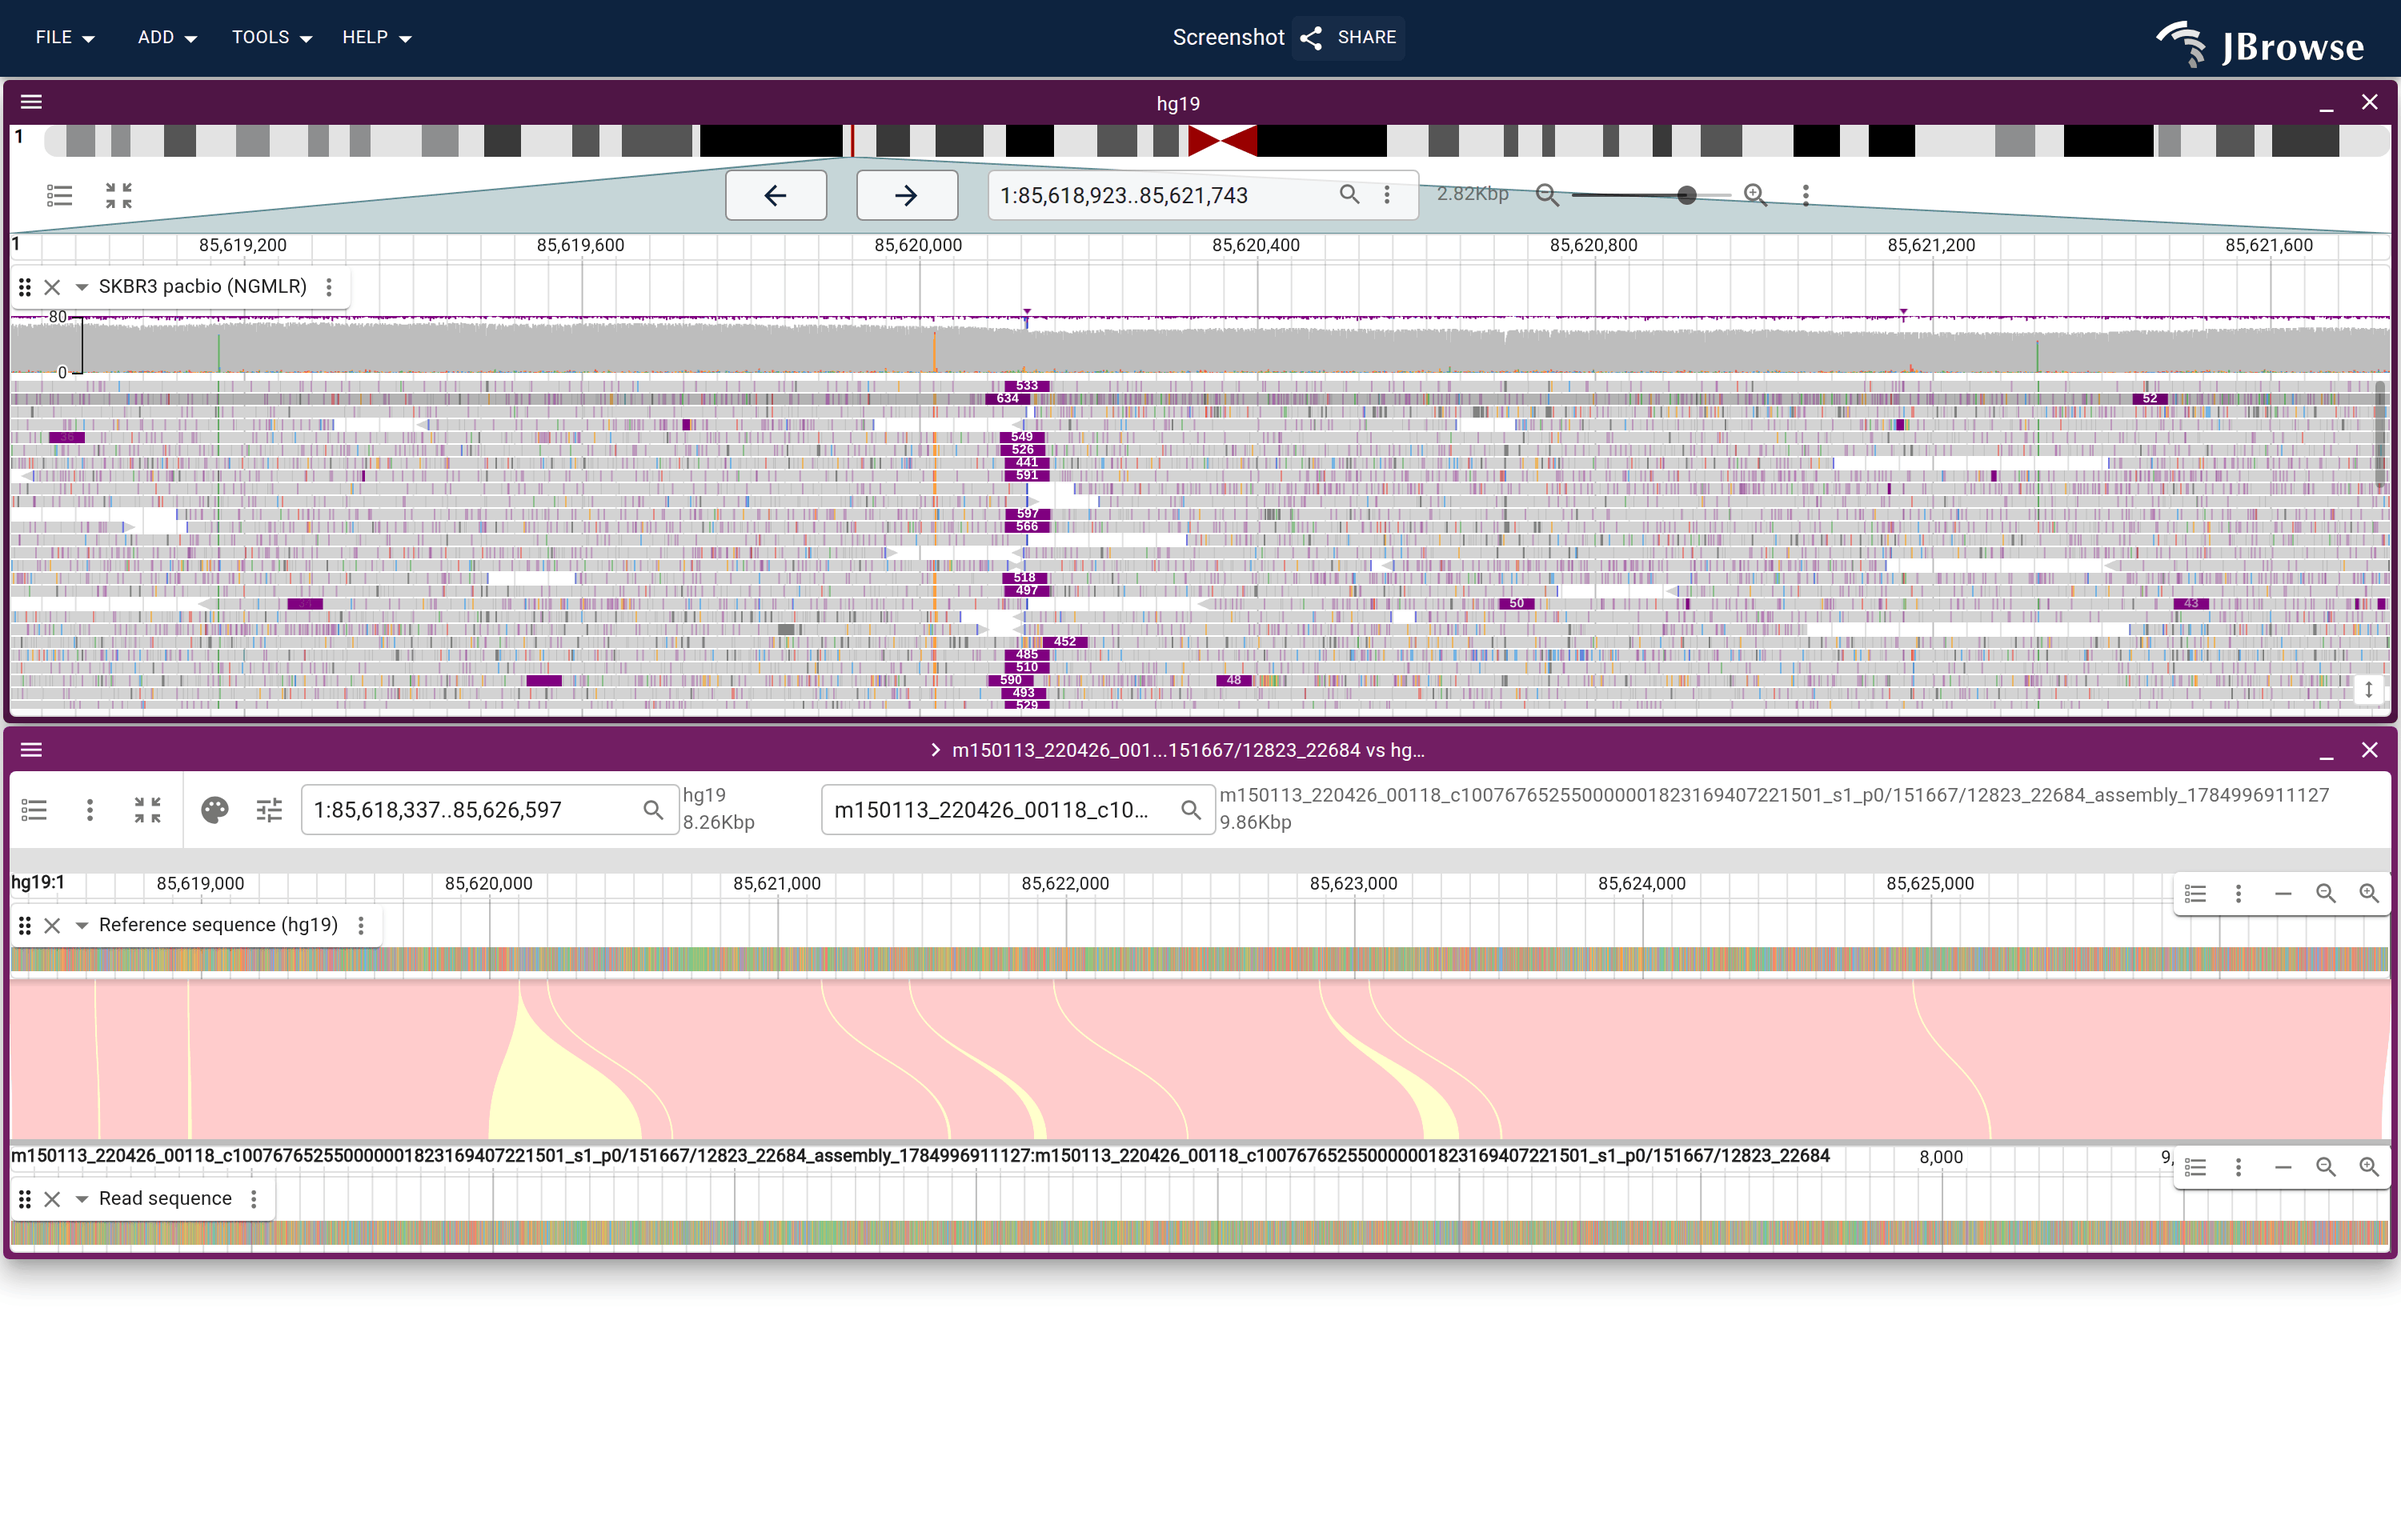
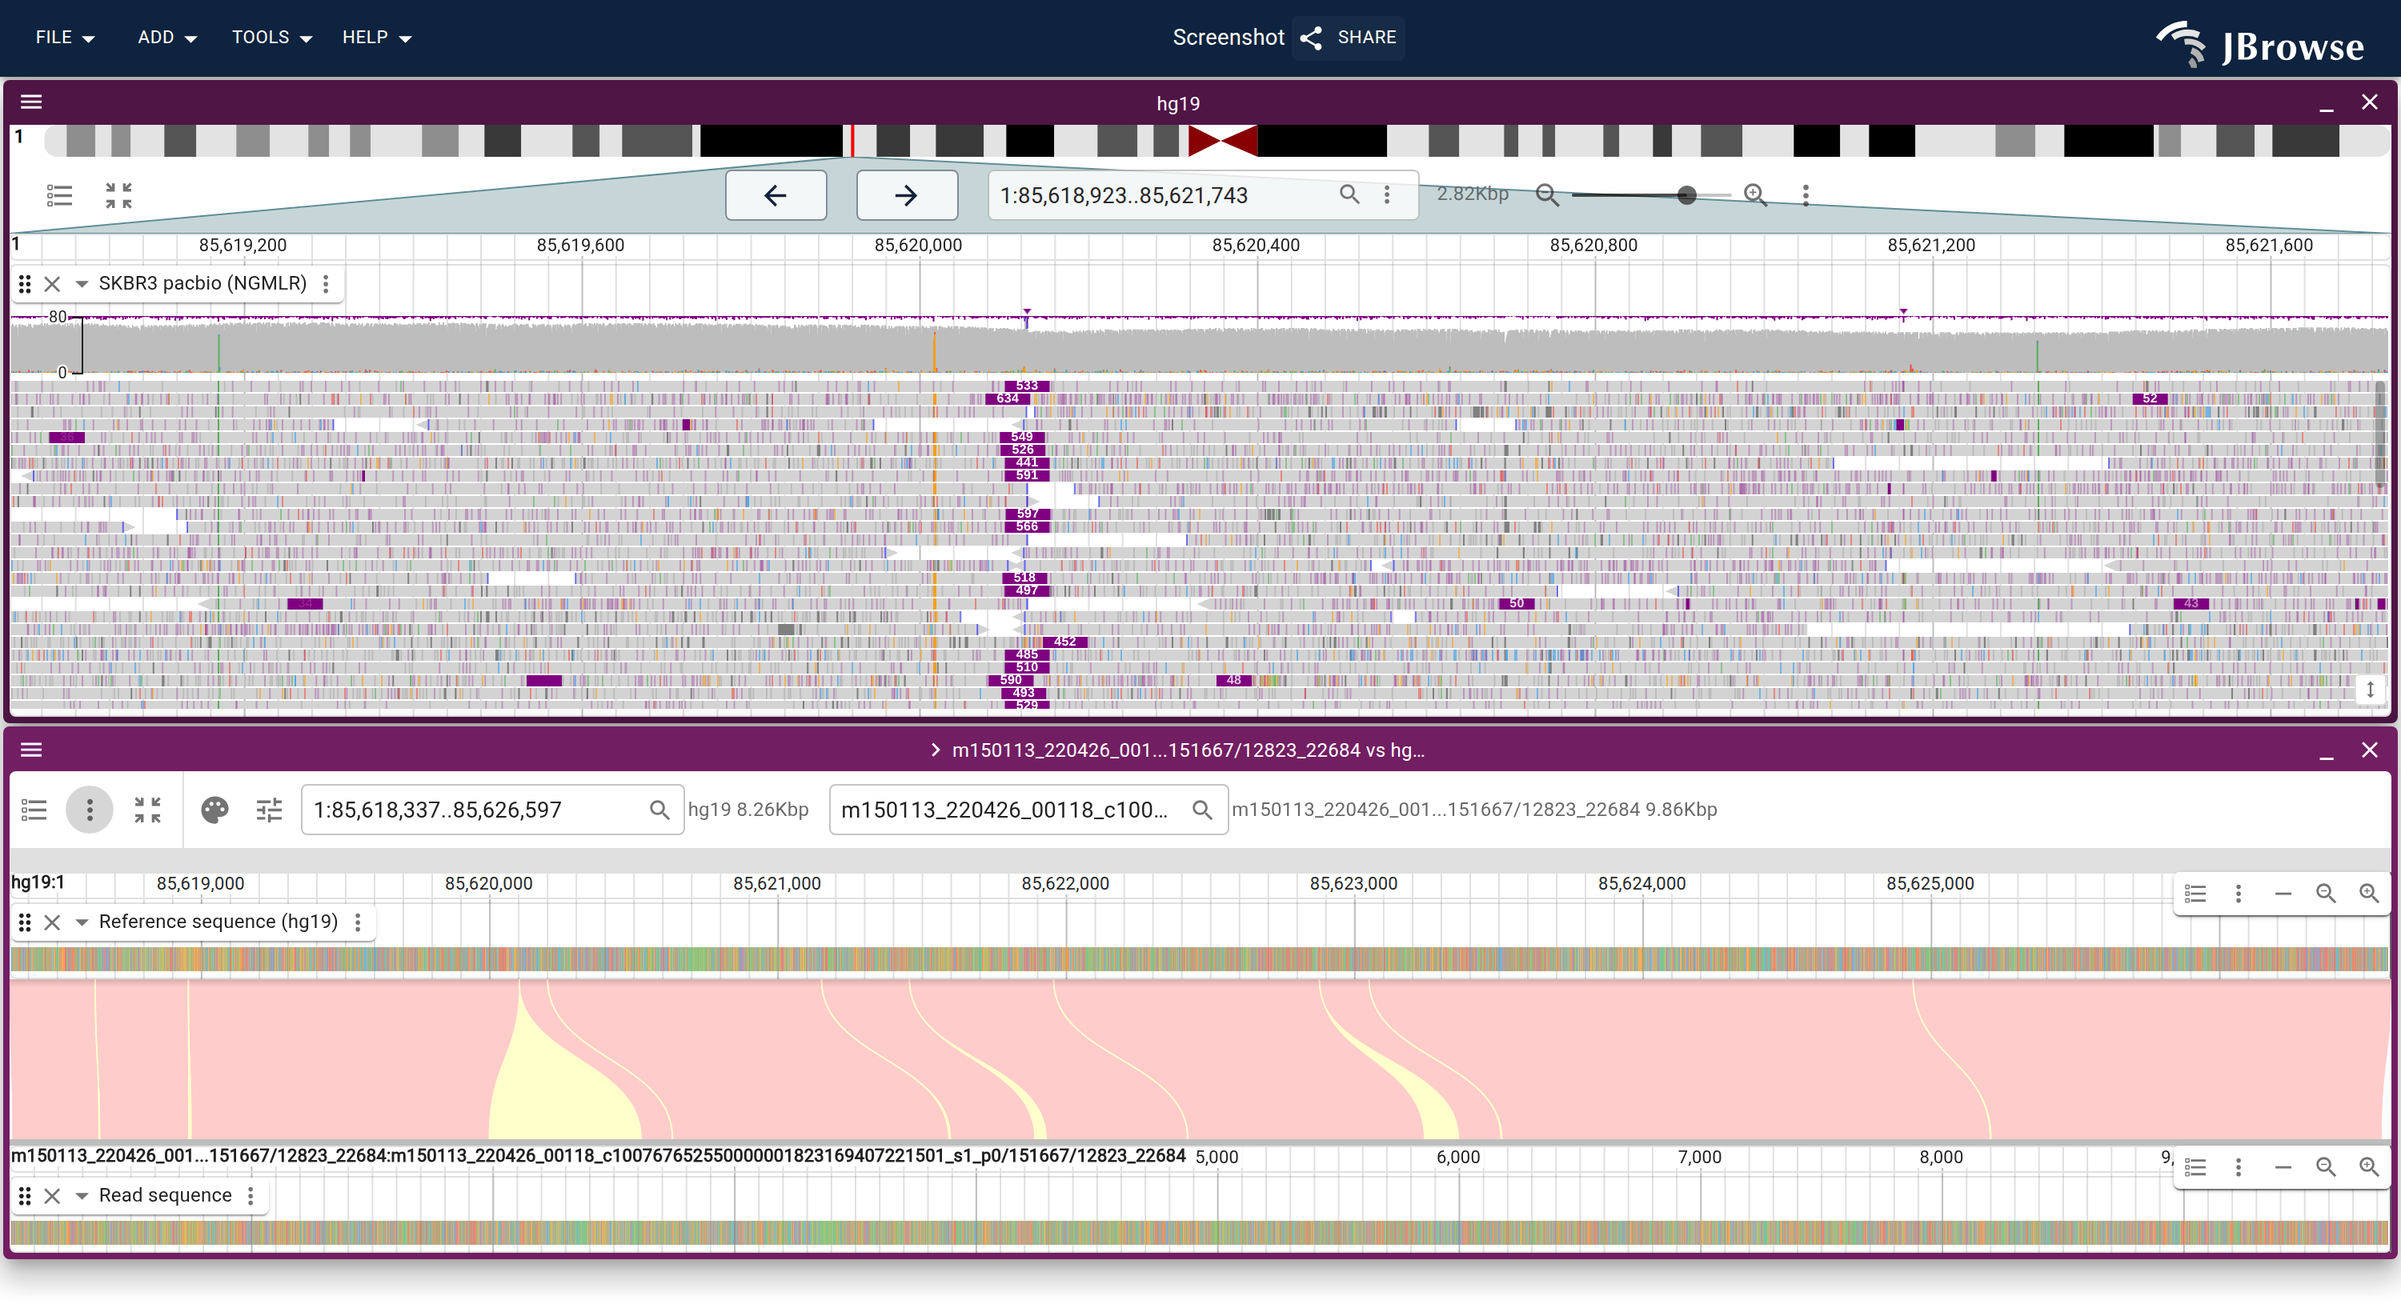
fix(website): hideTooltip has to cover MUI's tooltips as well
It matched only BaseTooltip, by the inline z-index:100000 its portal carries.
MUI's title tooltips are the other kind and sailed through: any action ending on
a toolbar button leaves the cursor over it and the tooltip fades in during the
settle before the shot, which is how a "View options" bubble got baked into
read_vs_ref_insertion. Matched on .MuiTooltip-popper rather than another z-index,
which is theme-dependent.

The figure is regenerated with that gone, with the stamp-free assembly label
from the commit before it, and sized to its content - 950px left ~136px of page
background under the launched view.

Claude-Session: https://claude.ai/code/session_01DjGqTMUV5KqKtdBbyrb7Ss

diff --git a/website/scripts/annotations.ts b/website/scripts/annotations.ts
@@ -82,14 +82,28 @@ export async function drawAnnotations(page: Page, annotations: Annotation[]) {
 }
 
 export async function hideLingeringTooltip(page: Page) {
-  // BaseTooltip renders into a portal with inline z-index:100000 (MUI menus
-  // use 1300), so this targets the lingering hover tooltip without touching
-  // the context menu we want to keep.
+  // Two kinds, and a spec asking for neither has to say so once.
+  //
+  // BaseTooltip (the feature/hover tooltip) renders into a portal with inline
+  // z-index:100000 (MUI menus use 1300), so matching on that targets it without
+  // touching the context menu a figure may want to keep.
+  //
+  // MUI's own `title` tooltips are the other kind, and they used to sail
+  // through: any action ending on a toolbar button leaves the cursor over it,
+  // and the tooltip fades in during the settle before the shot. That is how a
+  // "View options" bubble got into read_vs_ref_insertion. They portal to
+  // `.MuiTooltip-popper`, whose z-index is theme-dependent, so match the class
+  // rather than another number.
   await page.evaluate(() => {
     for (const el of document.querySelectorAll<HTMLElement>('div')) {
       if (el.style.zIndex === '100000') {
         el.style.display = 'none'
       }
+    }
+    for (const el of document.querySelectorAll<HTMLElement>(
+      '.MuiTooltip-popper',
+    )) {
+      el.style.display = 'none'
     }
   })
 }

diff --git a/website/scripts/specs/ui.ts b/website/scripts/specs/ui.ts
@@ -742,8 +742,9 @@ export const uiSpecs: ScreenshotSpec[] = [
     settleMs: 8000,
     hideTooltip: true,
     // the synteny read-vs-ref panel below the pileup gets clipped at the default
-    // 800px viewport, so give it extra room
-    viewportHeight: 950,
+    // 800px viewport, so give it extra room. Sized to the content: 950 left
+    // ~136px of page background under the launched view.
+    viewportHeight: 820,
     actions: [
       { type: 'rightclick', from: { x: 622, y: 249 } },
       { type: 'waitForText', text: 'Open feature details' },
